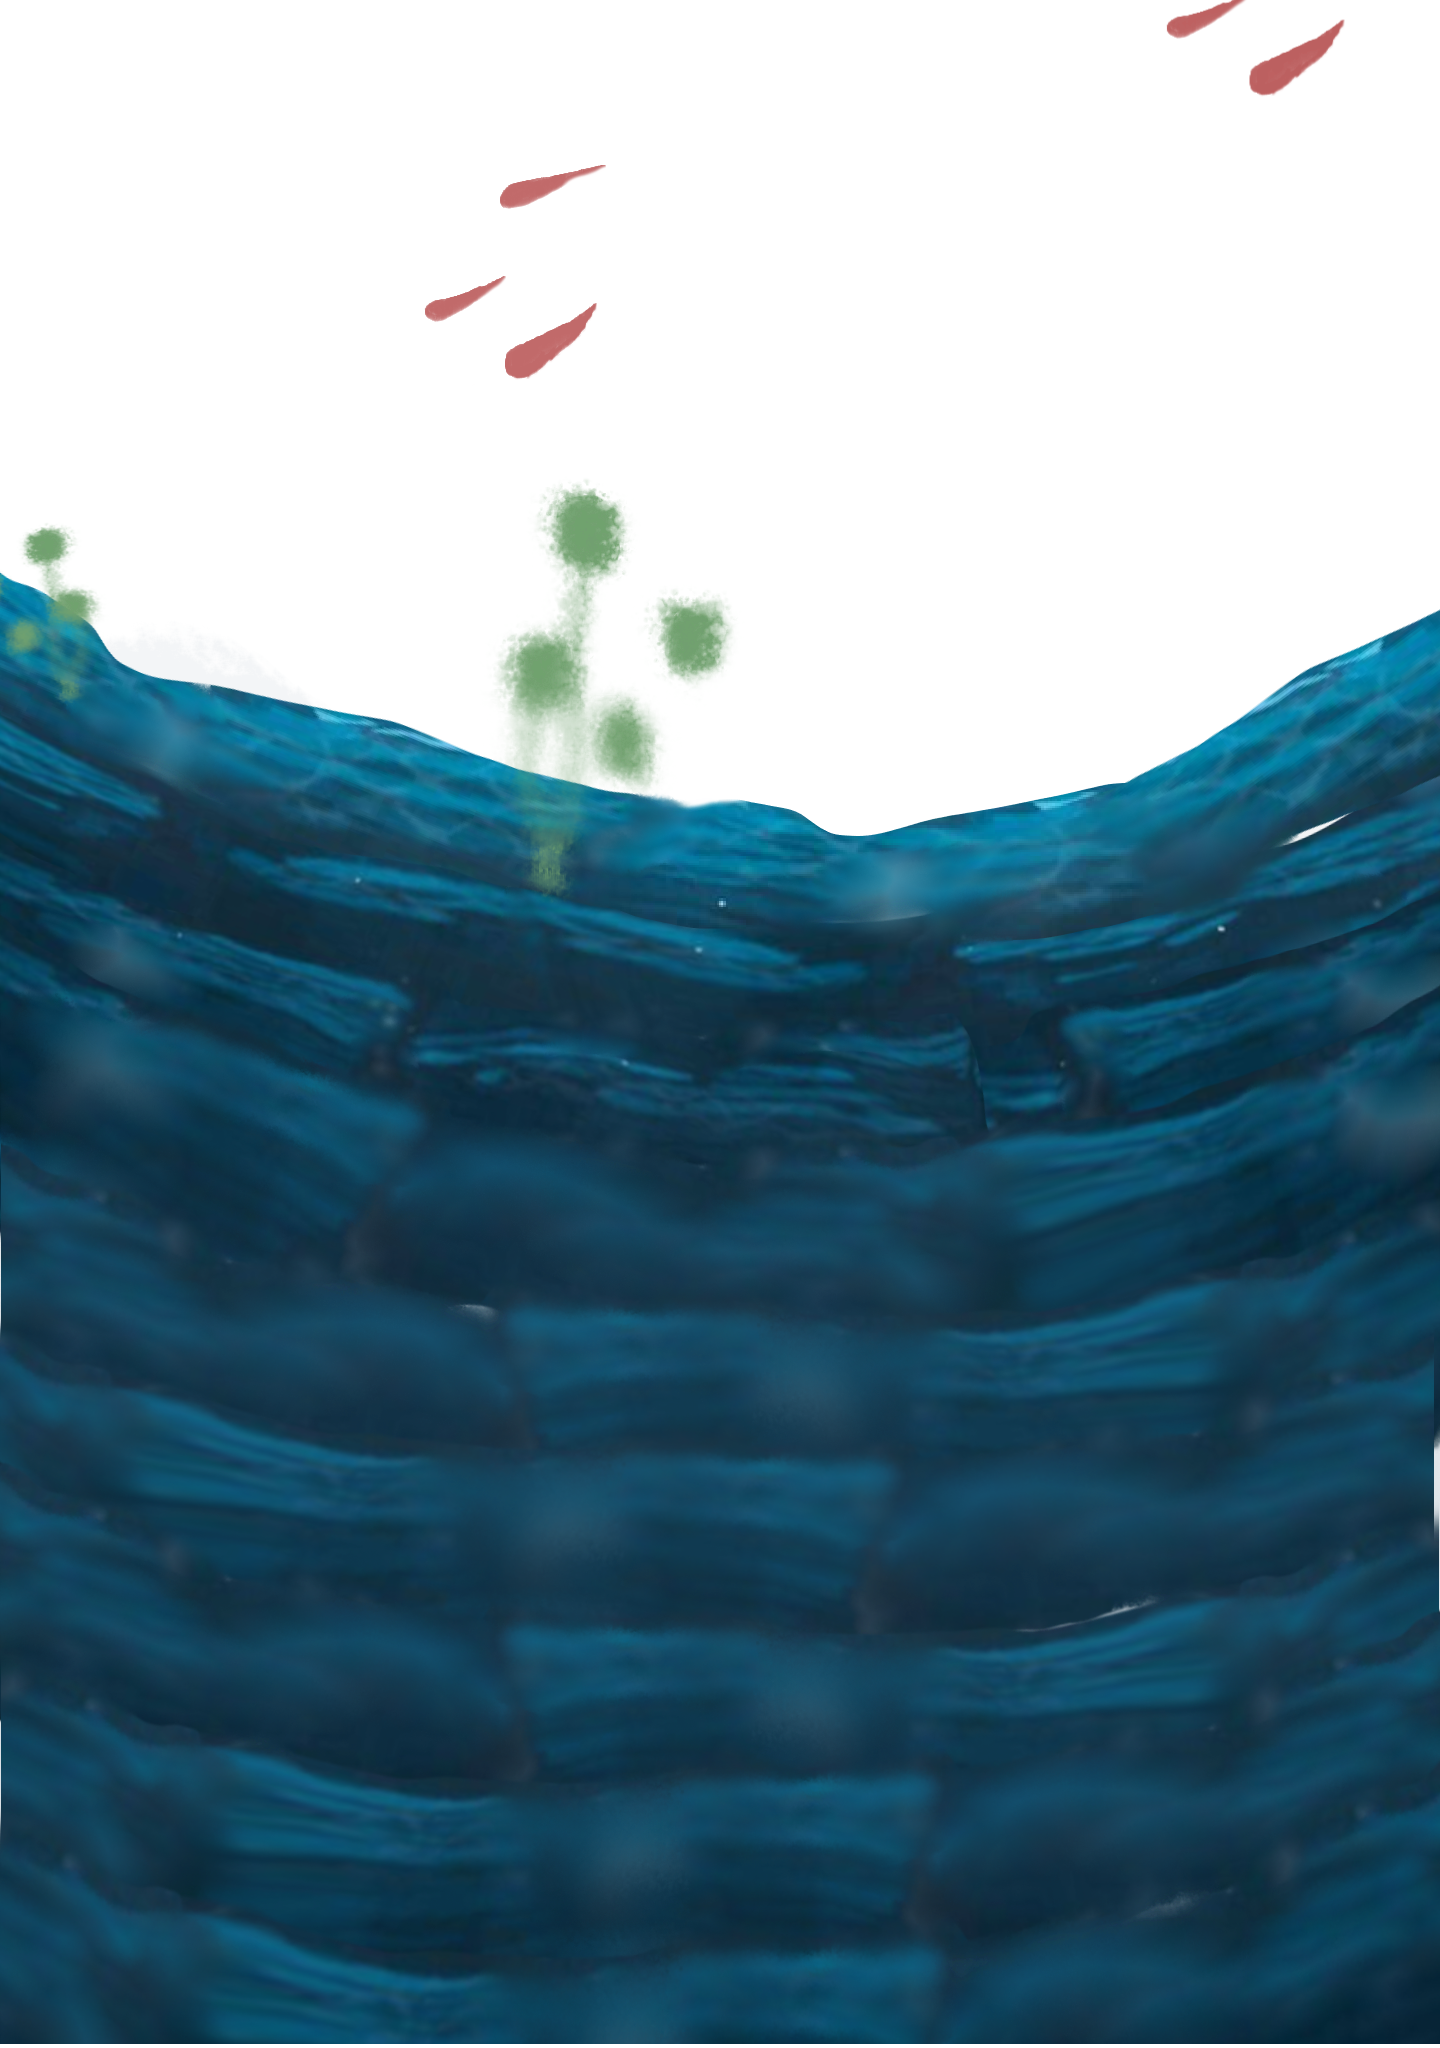
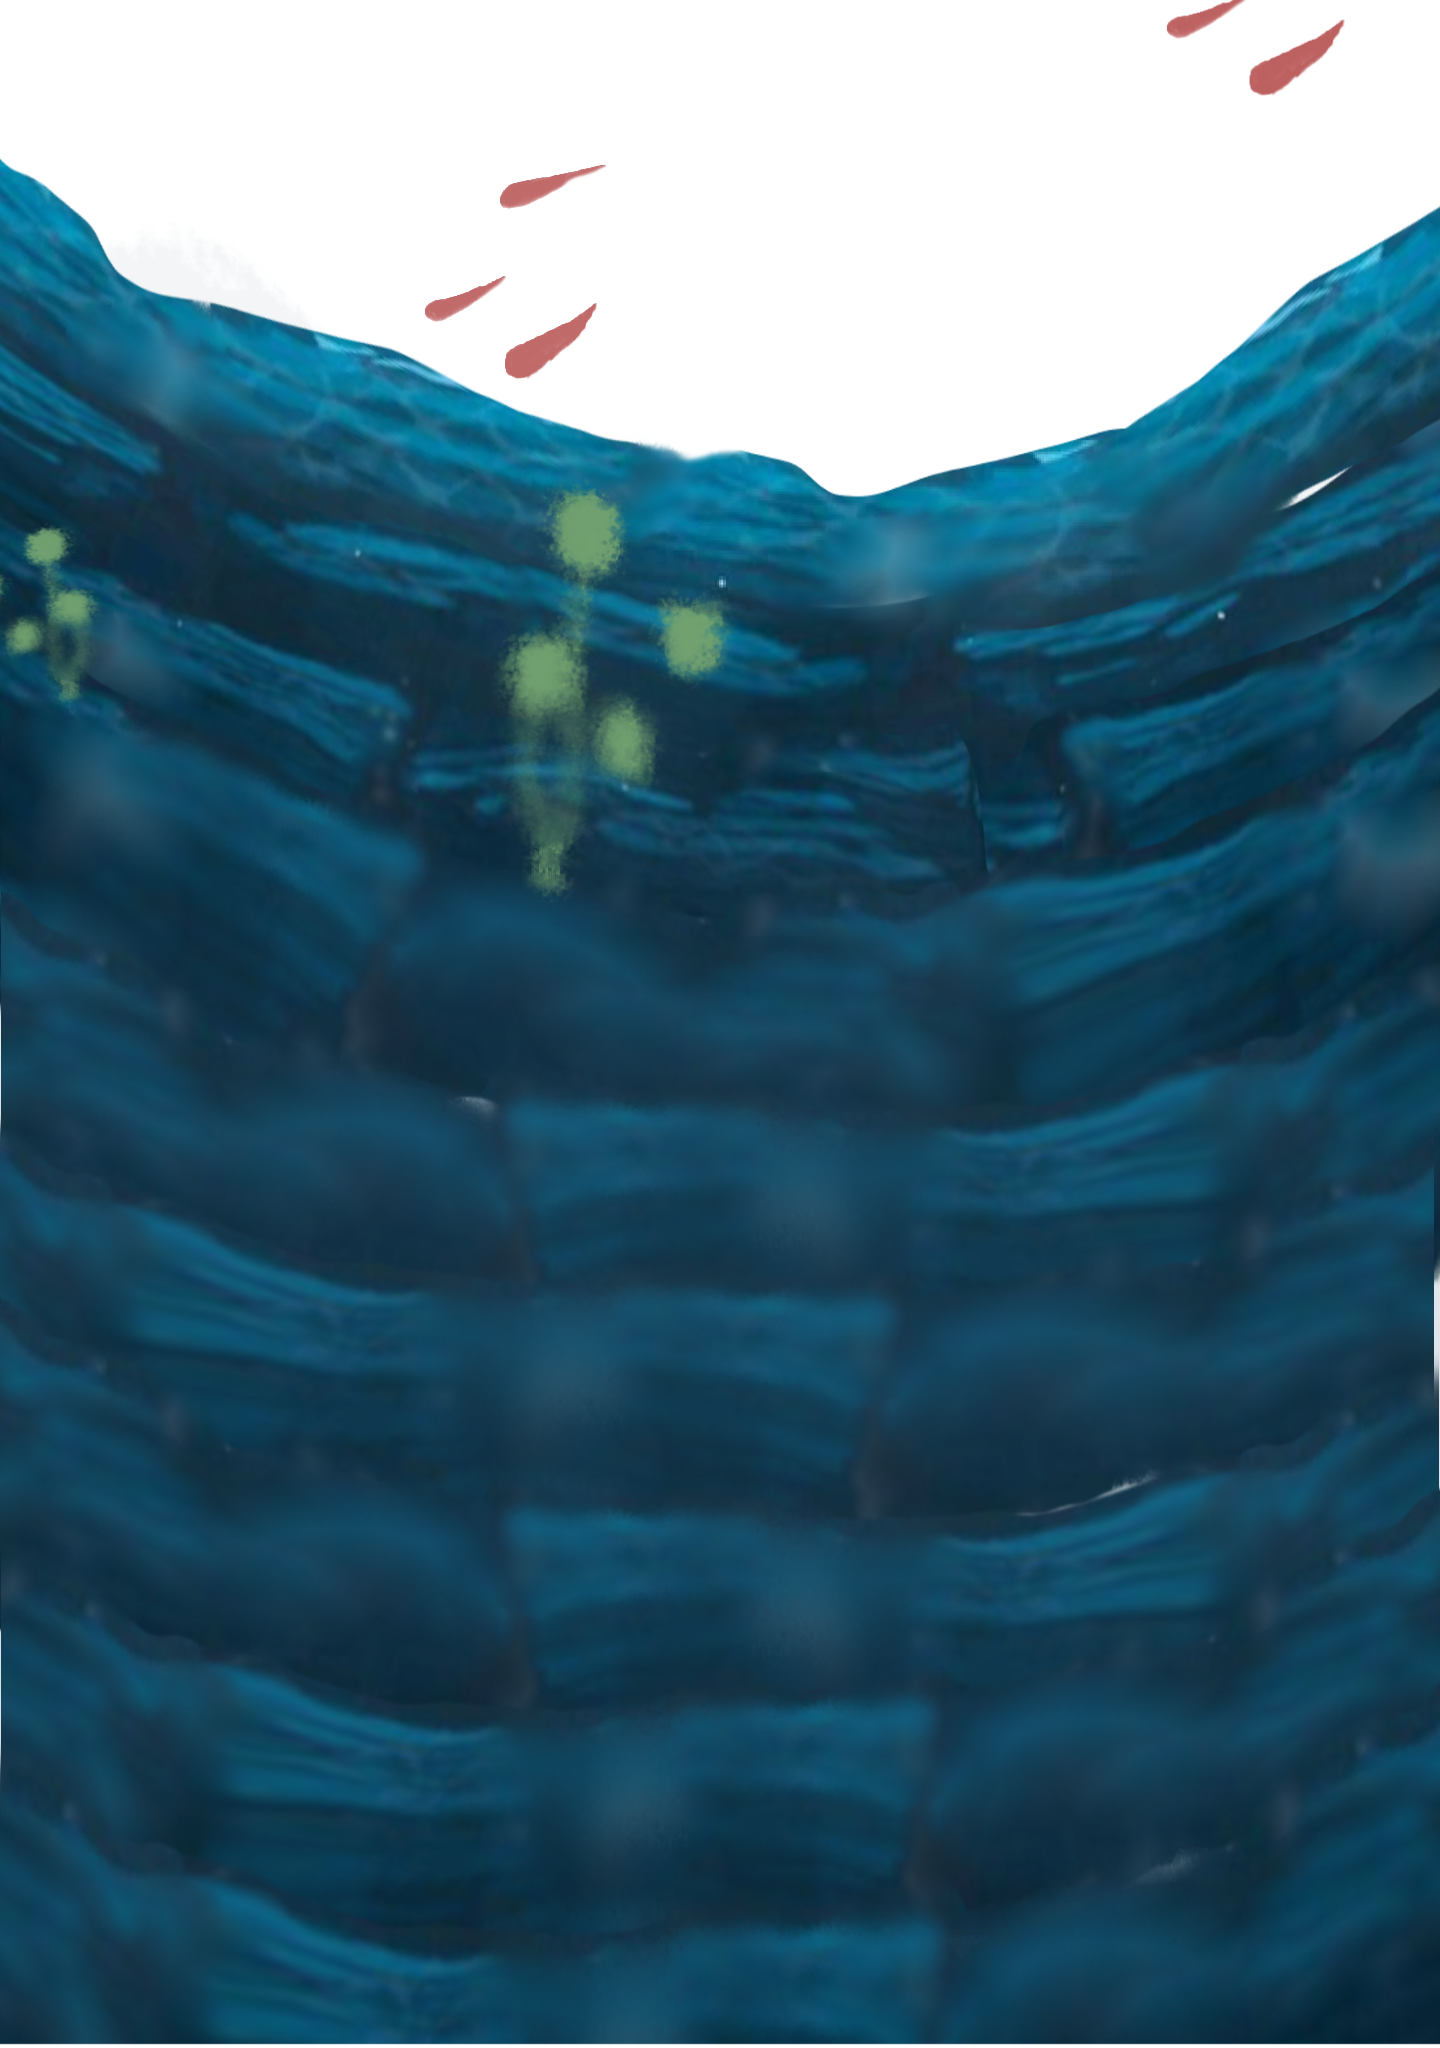
💬💄 longer wall

diff --git a/src/assets/styles/components/sections/sea.scss b/src/assets/styles/components/sections/sea.scss
@@ -31,6 +31,15 @@
                     }
                     width: 100vw;
                 }
+                &.rock{
+                    @include interpolate(
+                        top,
+                        map-get($breakpoints, "tablet"),
+                        map-get($breakpoints, "desktop"),
+                        100px,
+                        400px,
+                      );
+                }
             }
             &.ban-1{
                 &.fish-1{

diff --git a/src/components/sections/Sea.jsx b/src/components/sections/Sea.jsx
@@ -77,7 +77,7 @@ const Sea = () => {
                         speedY={-0.2}
                         parallax={true}
                         isFullyVisible={true}
-                        refClass="decore"
+                        refClass="decore rock"
                         images={[rockPng, rockPng, rockWebp, rockWebp ]}
                         poster={poster}
                         lazy={true}
